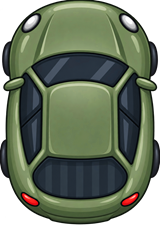
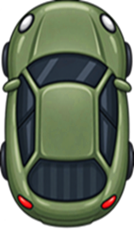
Add parallel sagging cables between lampposts and houses

diff --git a/main.py b/main.py
@@ -661,7 +661,16 @@ class World:
 
         self.street_lamp_bulbs_world = [(x - 70, y - 260) for x, y in self.street_lamp_grounds]
         lamp_wire_points = [(x - 10, y - 255) for x, y in self.street_lamp_grounds]
-        self.overhead_cable_spans = list(zip(lamp_wire_points, lamp_wire_points[1:]))
+
+        self.overhead_cable_spans = []
+
+        for start, end in zip(lamp_wire_points, lamp_wire_points[1:]):
+            # Offset the anchors sideways so the three cables don't overlap.
+            for x_offset, sag in [(-10, 7), (-2, 15), (6, 22)]:
+                cable_start = (start[0] + x_offset, start[1])
+                cable_end = (end[0] + x_offset, end[1])
+                self.overhead_cable_spans.append((cable_start, cable_end, sag))
+
         for house_index, house in enumerate(self.houses):
             nearest_index = min(
                 range(len(self.street_lamp_grounds)),
@@ -677,9 +686,11 @@ class World:
             else:
                 # Use the matching upper-right roof-to-wall corner on house one.
                 house_anchor = (house.left + 460, house.top + 40)
-            self.overhead_cable_spans.append(
-                (lamp_anchor, house_anchor)
-            )
+
+            for x_offset, sag in [(-8, 0), (0, 20), (8, 30)]:
+                cable_start = (lamp_anchor[0] + x_offset, lamp_anchor[1])
+                cable_end = (house_anchor[0] + x_offset, house_anchor[1])
+                self.overhead_cable_spans.append((cable_start, cable_end, sag))
 
         horizontal_cone = self._make_cone_glow_surface(
             (round(350 * ZOOM), round(240 * ZOOM)), 145
@@ -828,7 +839,7 @@ class World:
 
     def draw_overhead_cables(self, screen, camera):
         """Render sagging power cables over the world sprites, without collision."""
-        for start, end in self.overhead_cable_spans:
+        for start, end, sag in self.overhead_cable_spans:
             dx = end[0] - start[0]
             dy = end[1] - start[1]
             length = max(1.0, math.hypot(dx, dy))
@@ -838,7 +849,6 @@ class World:
             if normal_x > 0 or (abs(normal_x) < 0.001 and normal_y < 0):
                 normal_x = -normal_x
                 normal_y = -normal_y
-            sag = min(55.0, max(20.0, length * 0.01))
             control = (
                 (start[0] + end[0]) / 2 + normal_x * sag,
                 (start[1] + end[1]) / 2 + normal_y * sag,
@@ -2291,8 +2301,8 @@ class Game:
             Car((2900, 1000), world, "graphics/suv.png", (-60, -60), 1000, 1000,
                 wheel_bounds=SUV_WHEEL_BOUNDS, reference_size=SUV_SIZE),
             Car((2700, 1000), world, "graphics/bouboul.png", (-20, -20), 600, 300),
-            Car((3430, 1500), world, "graphics/audi_v2.png", (-20, -20), 900, 500),
-            Car((3430, 2200), world, "graphics/audi_v3.png", (-20, -20), 900, 500),
+            Car((3430, 1500), world, "graphics/marechal.png", (-20, -20), 900, 500),
+            Car((3430, 2200), world, "graphics/marechal_gt.png", (-20, -20), 1100, 500),
             Car((3430, 1800), world, "graphics/circlus_red.png", (-20, -20), 900, 500),
         ]
 
